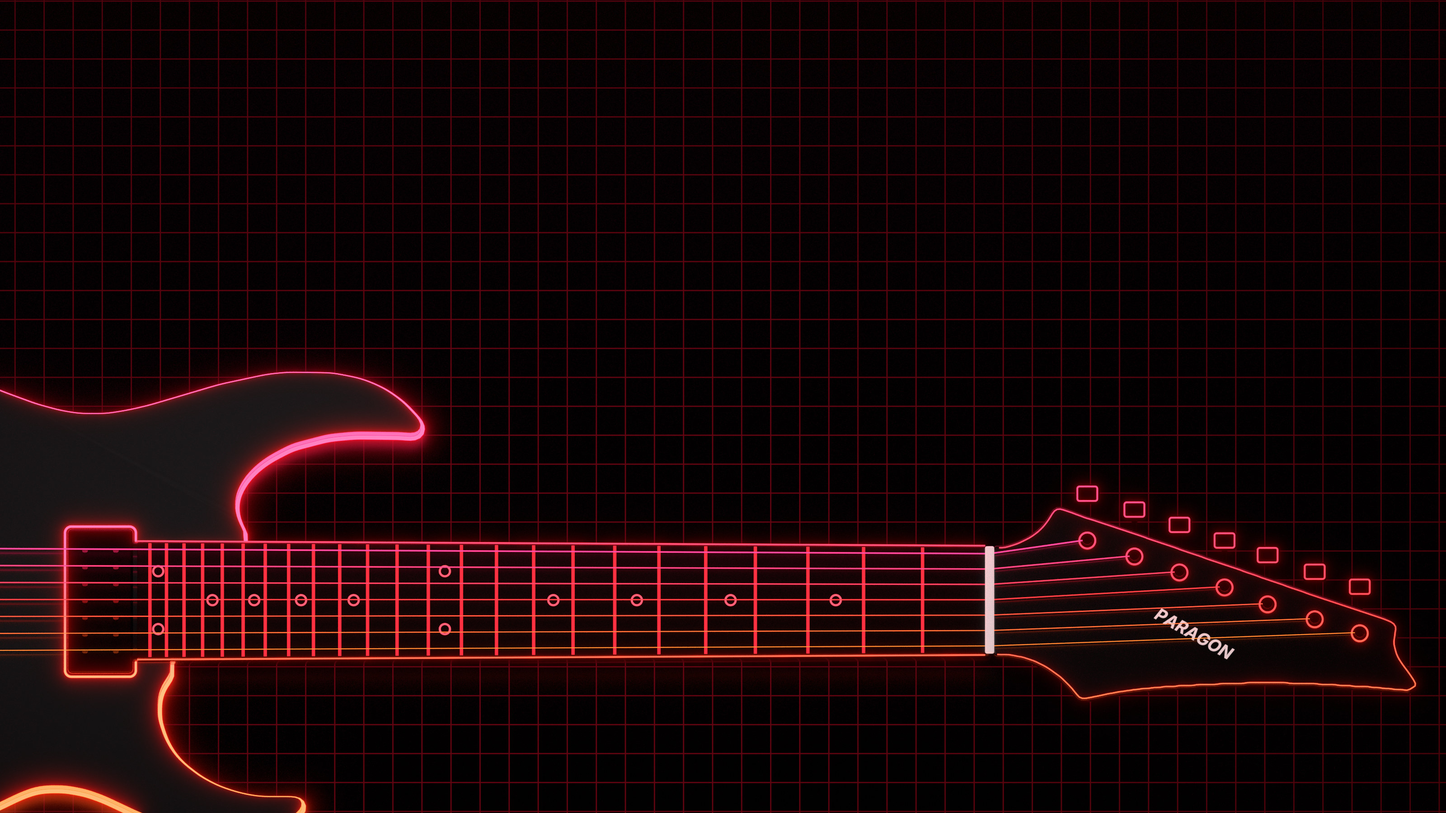
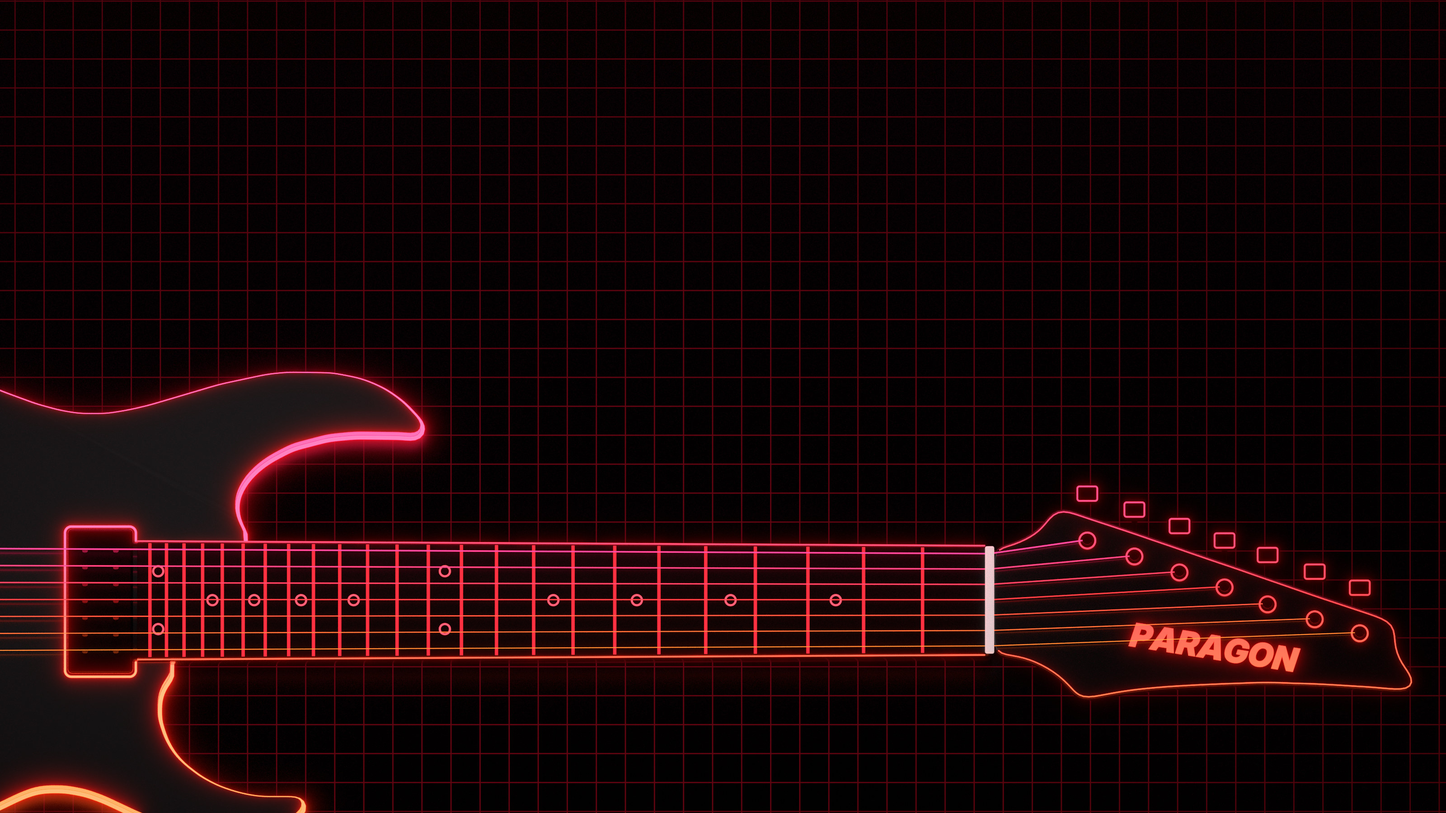
Mock-up 4 (not released): the headstock smoothed, PARAGON glowing and twice the size
The owner: smooth the headstock as the body was; PARAGON should glow, be at
least twice the size, in the same lettering as PARAGON on the rack.

- The headstock's outline smoothed along its length (GUITAR_SMOOTH_MM, 3 mm,
  as the body), its straight sides first carried 5 mm on under the nut so the
  rounded corners there are hidden by it.
- PARAGON in InterDisplay Black Italic (resources/fonts: the font the rack's
  badge is drawn in), neon (the edges' soft neon), 27 mm (was 13.5), along the
  headstock between the tuner posts and the treble edge (-9 degrees) so the
  bigger lettering fits; GUITAR_HEAD_NAME_SIZE sets it.

Claude-Session: https://claude.ai/code/session_01DkHHwCHzQybJCknUhNQY56

diff --git a/resources/guitar/guitar3d.py b/resources/guitar/guitar3d.py
@@ -368,7 +368,10 @@ else:
     with open(os.environ.get("GUITAR_HEADSTOCK", os.path.join(os.path.dirname(os.path.abspath(__file__)), "headstock-outline.json"))) as f:
         head = json.load(f)
     H0 = X_NUT + 0.005   # where the headstock leaves the nut
-    hv = [(H0 + x / 1000.0, y / 1000.0) for x, y in head["outline"]]
+    # smoothed along its length as the body is (GUITAR_SMOOTH_MM, 3 mm), its straight sides first carried 5 mm on under
+    # the nut, so the smoothing rounds those corners where the nut hides them
+    hv = smoothed([(H0 + (x if x > 0.5 else -5.0) / 1000.0, y / 1000.0) for x, y in head["outline"]],
+                  float(os.environ.get("GUITAR_SMOOTH_MM", "3")))
     head_z = neck_top - 0.006
     cu = bpy.data.curves.new("headstock", "CURVE"); cu.dimensions = "2D"; cu.fill_mode = "BOTH"; cu.extrude = 0.004; cu.bevel_depth = 0.0015
     sp = cu.splines.new("POLY"); sp.points.add(len(hv) - 1)
@@ -405,19 +408,19 @@ else:
         bpy.ops.mesh.primitive_torus_add(major_radius=0.0044, minor_radius=0.00045, location=(px_, py_, face_z + 0.0021))
         assign(bpy.context.object, NEON_SOFT)
         cylinder("post cap %d" % k, 0.0024, 0.001, (px_, py_, face_z + 0.0102), POLE, verts=20)
-    # PARAGON where the maker's name was: across the face, slanted along the treble edge, in pearl
-    font_path = "/usr/share/fonts/opentype/inter/Inter-BoldItalic.otf"
+    # PARAGON where the maker's name was, glowing, in the rack's PARAGON lettering (InterDisplay Black Italic, the
+    # plugin's own font): along the headstock between the tuner posts and the treble edge, the strings over it
+    font_path = os.path.join(os.path.dirname(os.path.abspath(__file__)), "..", "fonts", "InterDisplay-BlackItalic.ttf")
     tc = bpy.data.curves.new("headstock name", "FONT")
     tc.body = "PARAGON"
-    if os.path.exists(font_path):
-        tc.font = bpy.data.fonts.load(font_path)
+    tc.font = bpy.data.fonts.load(font_path)
     tc.align_x = "CENTER"; tc.align_y = "CENTER"
-    tc.size = 0.0135
+    tc.size = float(os.environ.get("GUITAR_HEAD_NAME_SIZE", "0.027"))
     tc.extrude = 0.0002
     name = link(bpy.data.objects.new("headstock name", tc))
-    name.location = (H0 + 0.110, -0.018, face_z + 0.0004)
-    name.rotation_euler = (0, 0, math.radians(-29.5 + 90 - 90))
-    name.data.materials.append(PEARL)
+    name.location = (H0 + 0.121, -0.0255, face_z + 0.0004)
+    name.rotation_euler = (0, 0, math.radians(-9.0))
+    name.data.materials.append(NEON_SOFT)
 
 # ================================================================ pickups, bridge, controls
 def humbucker(name, X):
